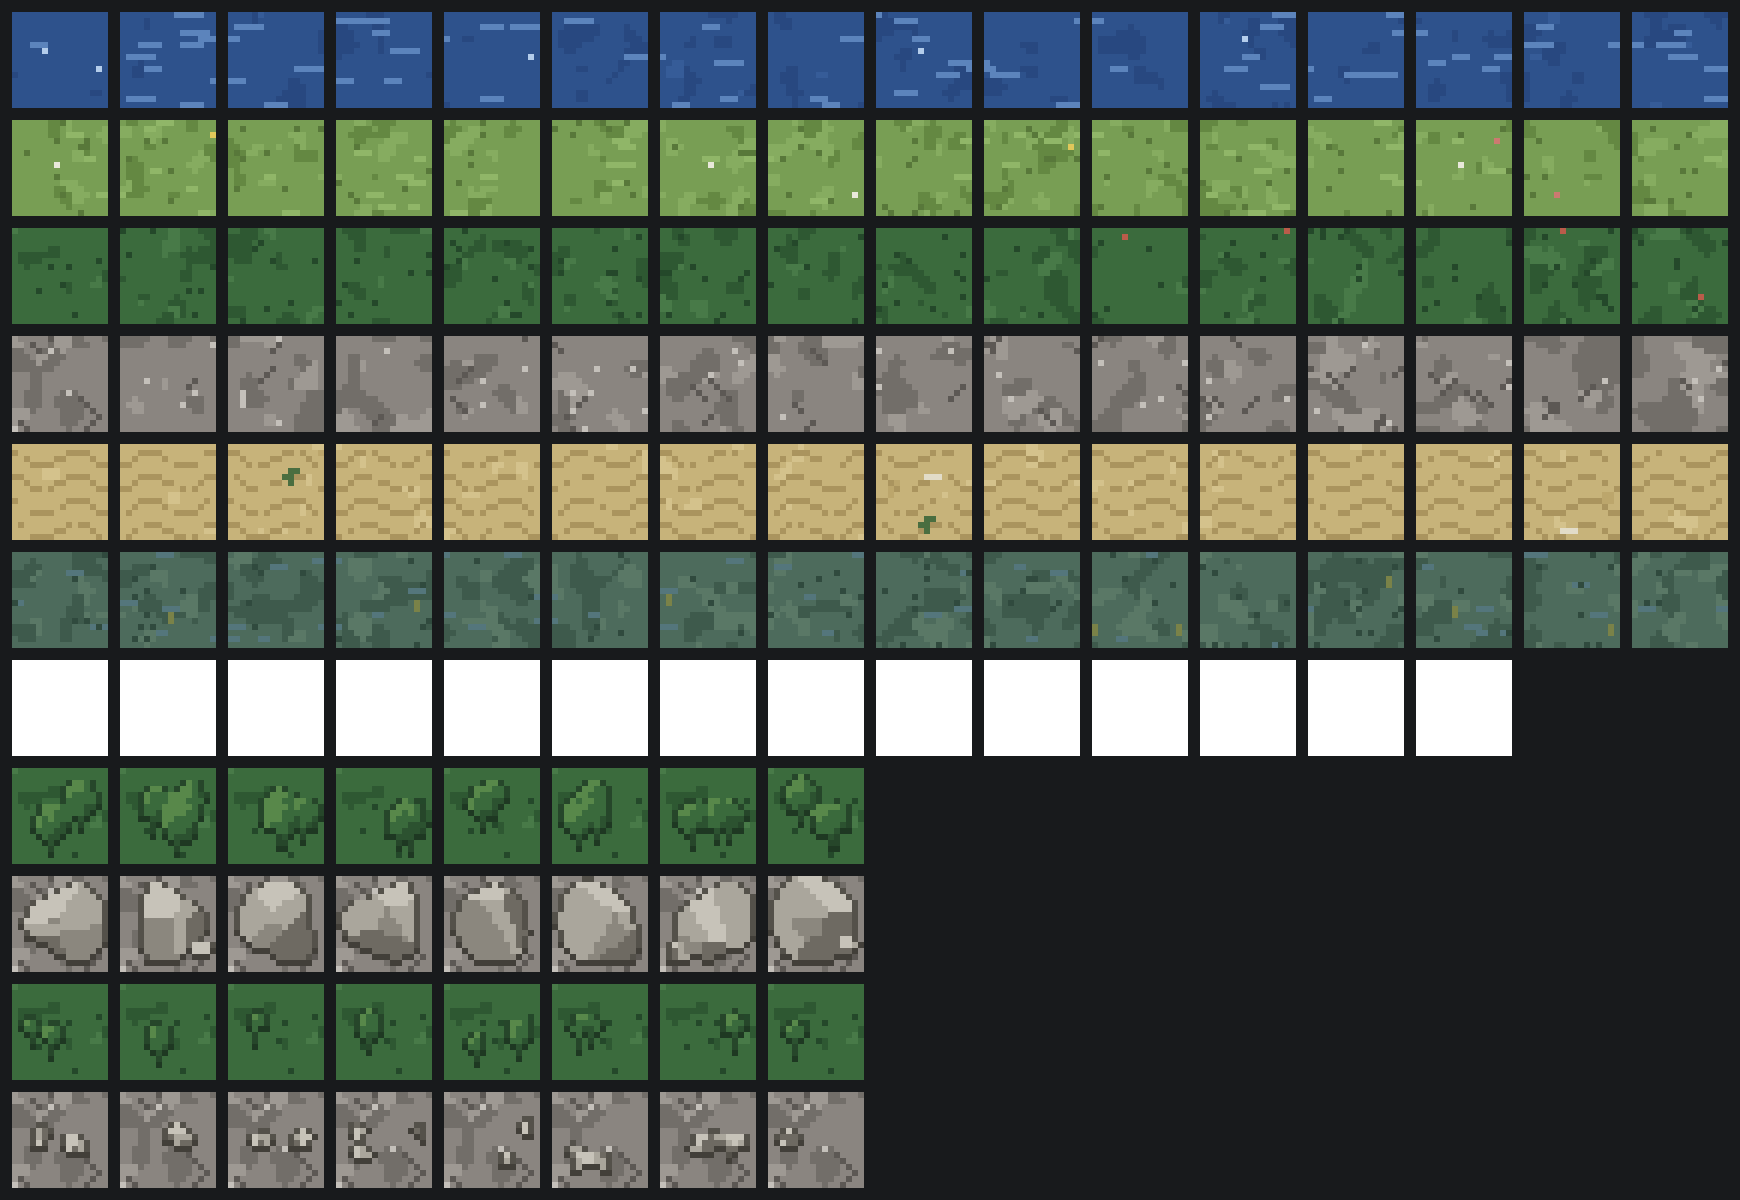
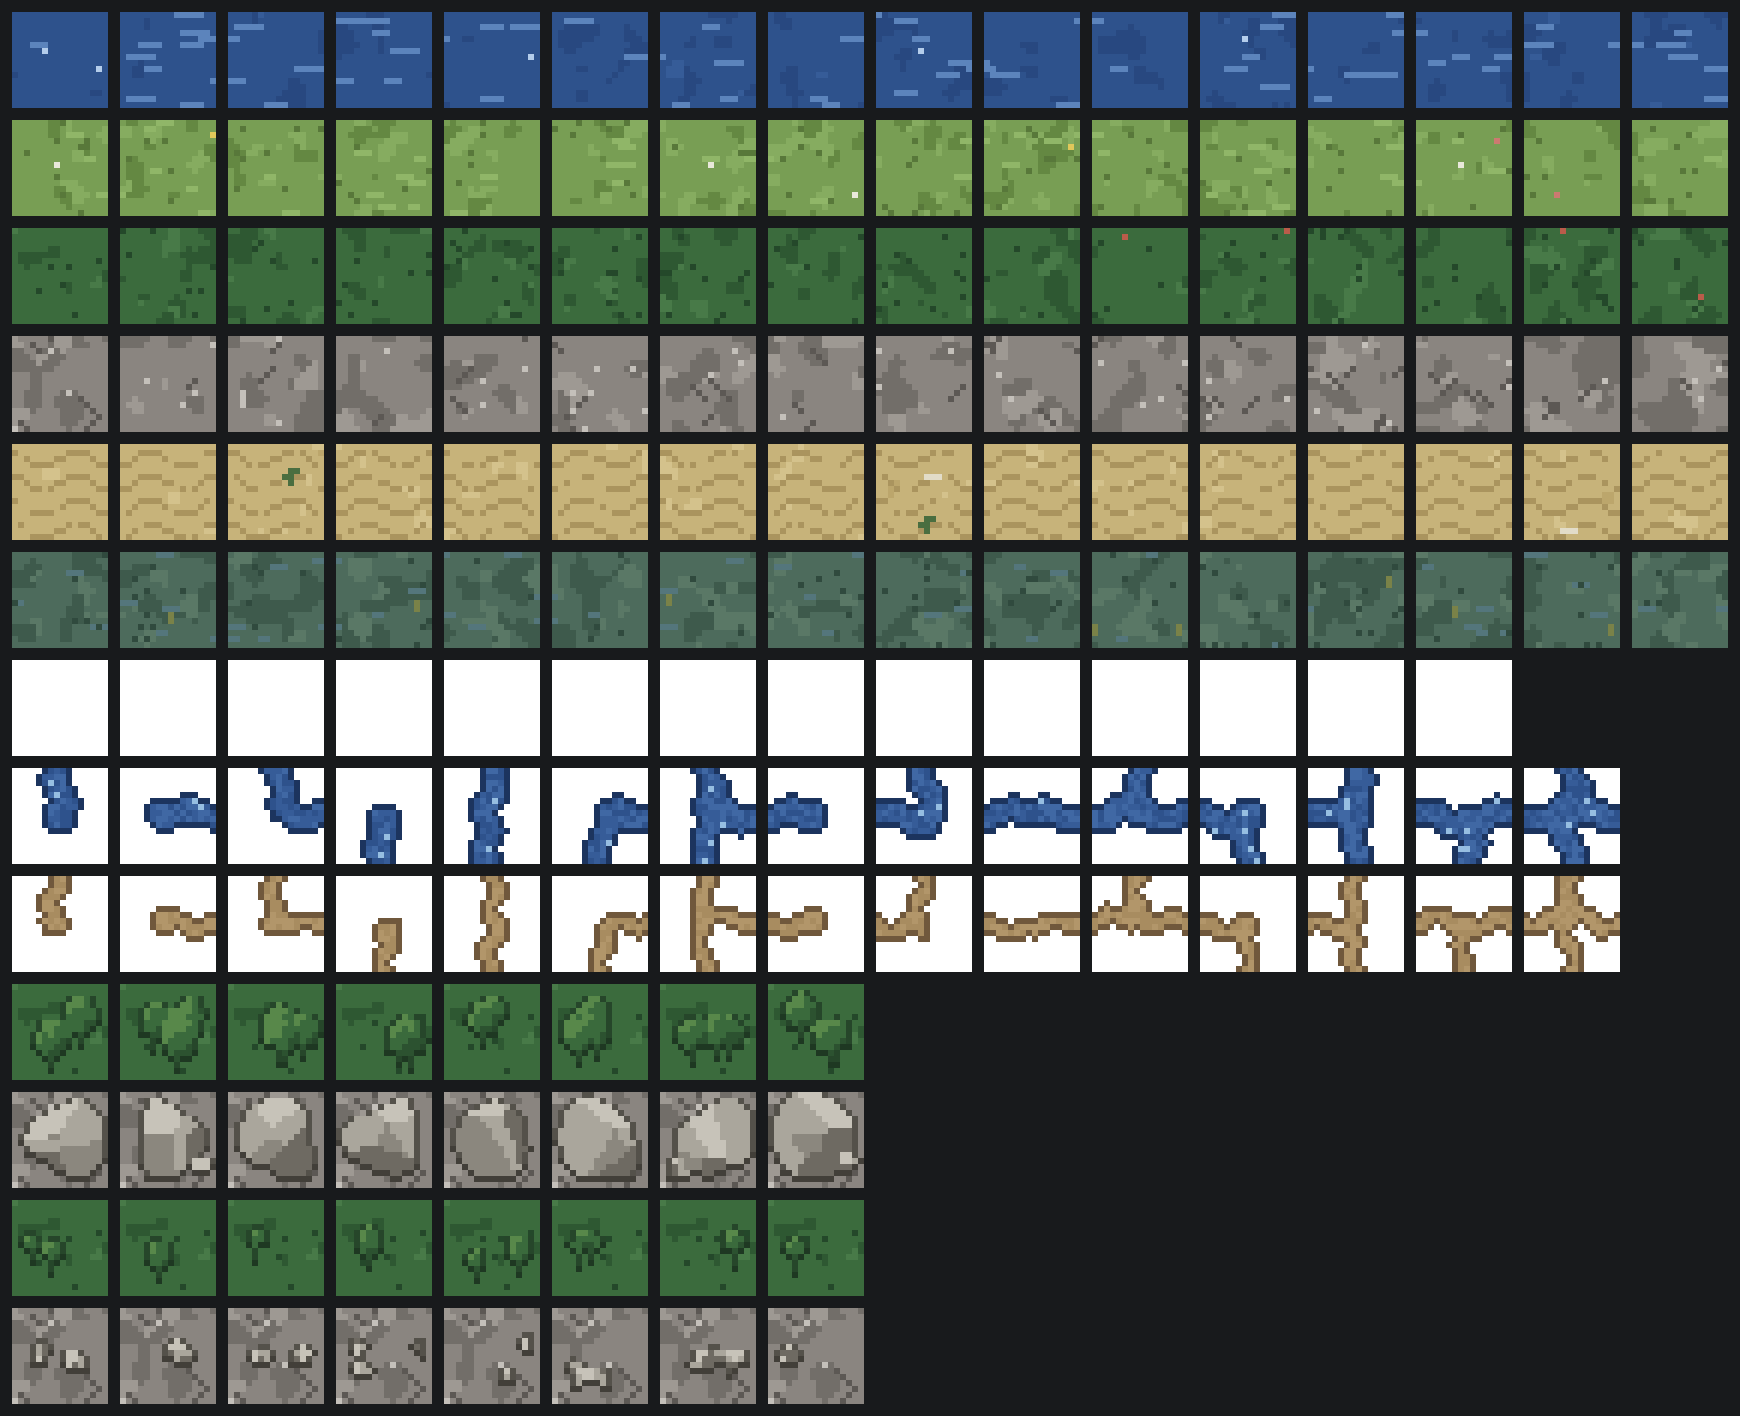
rivers and roads

diff --git a/tools/gen_tiles.py b/tools/gen_tiles.py
@@ -470,6 +470,72 @@ def ms_mask(rng, code):
     return [[pred(x, y) for x in range(SIZE)] for y in range(SIZE)]
 
 
+# ------------------------------------------------------------- networks
+#
+# Rivers and roads: finished pieces per 4-bit connection case (N=1, E=2,
+# S=4, W=8, matching BD_Dir). A channel wanders from each connected edge
+# midpoint to the center; the wander vanishes at the edge, so pieces
+# connect across tiles.
+
+NET_VARIANTS = 4
+NET_ENDS = ((SIZE / 2, 0.0), (SIZE, SIZE / 2), (SIZE / 2, SIZE), (0.0, SIZE / 2))  # N E S W
+
+
+def channel_mask(rng, code, width):
+    keep = [[False] * SIZE for _ in range(SIZE)]
+    cx = SIZE / 2 + rng.uniform(-1.2, 1.2)
+    cy = SIZE / 2 + rng.uniform(-1.2, 1.2)
+    r = width / 2.0
+
+    def stamp(sx, sy, sr):
+        for y in range(max(0, int(sy - sr - 1)), min(SIZE, int(sy + sr + 2))):
+            for x in range(max(0, int(sx - sr - 1)), min(SIZE, int(sx + sr + 2))):
+                if (x + 0.5 - sx) ** 2 + (y + 0.5 - sy) ** 2 <= sr * sr:
+                    keep[y][x] = True
+
+    for bit in range(4):
+        if not (code >> bit) & 1:
+            continue
+        ex, ey = NET_ENDS[bit]
+        dx, dy = cx - ex, cy - ey
+        length = math.hypot(dx, dy)
+        nx, ny = -dy / length, dx / length  # perpendicular carries the wander
+        amp = rng.uniform(0.8, 1.8)
+        phase = rng.uniform(0.0, TAU)
+        for i in range(13):
+            t = i / 12.0
+            w = amp * math.sin(math.pi * t) * math.sin(phase + t * 5.0)
+            stamp(ex + dx * t + nx * w, ey + dy * t + ny * w, r)
+    if bin(code).count("1") == 1:  # stub: a head where the flow peters out
+        stamp(cx, cy, r + 0.8)
+    return keep
+
+
+def paint_network(rng, code, fill, bank, width, sparkle=None):
+    px = new_canvas()
+    keep = channel_mask(rng, code, width)
+    for y in range(SIZE):
+        for x in range(SIZE):
+            if keep[y][x]:
+                px[y][x] = rng.choice(fill)
+    # banks: channel pixels beside open ground darken; the tile border stays
+    # open, so the channel flows through
+    out = [row[:] for row in px]
+    for y in range(SIZE):
+        for x in range(SIZE):
+            if px[y][x] is None:
+                continue
+            for dy, dx in ((-1, 0), (1, 0), (0, -1), (0, 1)):
+                if 0 <= y + dy < SIZE and 0 <= x + dx < SIZE and px[y + dy][x + dx] is None:
+                    out[y][x] = bank
+    if sparkle:
+        for y in range(SIZE):
+            for x in range(SIZE):
+                if out[y][x] is not None and out[y][x] != bank and rng.random() < 0.05:
+                    out[y][x] = sparkle
+    return out
+
+
 # ------------------------------------------------------------------ output
 
 def to_image(px):
@@ -515,6 +581,22 @@ def main():
                 mask_row.append(img)
     sheet_rows.append(("masks", mask_row))
     print(f"masks: 14 cases x {MS_VARIANTS} variants")
+
+    # network pieces: rivers and roads by connection case
+    for name, fill, bank, width, sparkle in (
+        ("river", [(46, 82, 140), (54, 92, 152), (64, 104, 164)], (28, 52, 94), 5.0, (150, 190, 225)),
+        ("road", [(168, 140, 96), (178, 150, 106)], (112, 88, 60), 3.6, None),
+    ):
+        net_row = []
+        for code in range(1, 16):
+            for variant in range(NET_VARIANTS):
+                rng = random.Random(f"{name}-{code}:{variant}")
+                img = to_image(paint_network(rng, code, fill, bank, width, sparkle))
+                img.save(os.path.join(OUT_DIR, f"{name}_{code}_{variant}.png"))
+                if variant == 0:
+                    net_row.append(img)
+        sheet_rows.append((name, net_row))
+        print(f"{name}: 15 cases x {NET_VARIANTS} variants")
 
     for suffix, painters in (("overlay", OVERLAYS), ("edge", EDGE_OVERLAYS)):
         for name, painter in painters.items():

diff --git a/src/main.c b/src/main.c
@@ -117,7 +117,11 @@ internal TL_Cell* map_cache_cell(MapCache* cache, BD_Board* board, V2I p) {
         nb[(dy + 1) * 3 + (dx + 1)] = bd_tile_at(board, v2i_add(p, (V2I){dx, dy}))->terrain;
       }
     }
-    *cell = tl_cell(&cache->tiling, nb, p);
+    U8 networks[TL_NETWORK_CAP] = {0};
+    for(BD_Feature feature = 0; feature < BD_Feature_COUNT; feature += 1) {
+      networks[feature] = bd_tile_at(board, p)->features[feature];
+    }
+    *cell = tl_cell(&cache->tiling, nb, networks, p);
   }
   return cell;
 }
@@ -181,6 +185,23 @@ internal MapAssets map_assets_load(void) {
       U32 id = map__load(&assets, scratch.arena, path);
       if(id == 0) { break; }
       tl_push_mask(&assets.tiling, code, id);
+    }
+  }
+
+  // network art, by BD_Feature id; finished pieces per connection case
+  struct { U32 network; char* name; } NETWORK_ART[] = {
+      {BD_Feature_River, "river"},
+      {BD_Feature_Road, "road"},
+  };
+  for(U32 i = 0; i < ArrayCount(NETWORK_ART); i += 1) {
+    for(U32 code = 1; code < 16; code += 1) {
+      for(U32 variant = 0;; variant += 1) {
+        String8 path = push_str8f(scratch.arena, "assets/tiles/%s_%u_%u.png",
+                                  NETWORK_ART[i].name, code, variant);
+        U32 id = map__load(&assets, scratch.arena, path);
+        if(id == 0) { break; }
+        tl_push_network(&assets.tiling, NETWORK_ART[i].network, code, id);
+      }
     }
   }
 
@@ -277,36 +298,6 @@ internal void map_draw(BD_Board* board, MapAssets* assets, MapCache* cache, D_Ca
               // draws nothing (also keeps the sheet batch unbroken)
               d_rect(r, WG_TERRAIN_DATA[piece->klass].color);
             }
-          }
-        }
-      }
-    }
-
-    // features as half-segments, tile center toward each connected neighbor;
-    // the neighbor draws the matching half, so connections read as one line
-    // (an edge tile's off-map half sends rivers visibly off the world).
-    // Rivers under roads: where both run, the road is the bridge.
-    struct {
-      BD_Feature feature;
-      F32 thickness;
-      V4 color;
-    } FEATURE_STYLES[] = {
-        {BD_Feature_River, MAP_TILE * 0.25f, {0.25f, 0.45f, 0.75f, 1}},
-        {BD_Feature_Road, MAP_TILE * 0.18f, {0.42f, 0.31f, 0.20f, 1}},
-    };
-    for(U32 style_idx = 0; style_idx < ArrayCount(FEATURE_STYLES); style_idx += 1) {
-      for(I32 y = y0; y <= y1; y += 1) {
-        for(I32 x = x0; x <= x1; x += 1) {
-          U8 mask = bd_tile_at(board, (V2I){x, y})->features[FEATURE_STYLES[style_idx].feature];
-          if(mask == 0) { continue; }
-          V2 center = {(x + 0.5f) * MAP_TILE, (y + 0.5f) * MAP_TILE};
-          for(BD_Dir dir = 0; dir < BD_Dir_COUNT; dir += 1) {
-            if(((mask >> dir) & 1) == 0) { continue; }
-            V2I delta = bd_dir_delta(dir);
-            V2 edge = {center.x + delta.x * MAP_TILE * 0.5f,
-                       center.y + delta.y * MAP_TILE * 0.5f};
-            d_line(center, edge, FEATURE_STYLES[style_idx].thickness,
-                   FEATURE_STYLES[style_idx].color);
           }
         }
       }

diff --git a/src/game/tiling.h b/src/game/tiling.h
@@ -59,13 +59,21 @@
 // EDGE MIDPOINTS (wander is free in between), which is what makes contours
 // of neighboring dual cells meet.
 //
+//- NETWORKS (rivers, roads) are line features autotiled by their 4-bit
+// connection mask -- bit d = toward BD_Dir d, relayed from the board as-is.
+// Art is finished pieces per connection case, entering and exiting at edge
+// midpoints so pieces connect across cells. Networks draw in id order
+// (road over river reads as a bridge), and a cell carrying any network
+// suppresses its overlays: nothing stands on a river or a road.
+//
 //- Draw contract: pieces overlap across cells (boundary pieces straddle
 // four map cells), so the caller draws the viewport once per TL_Layer, in
-// layer order: every Surface piece of every cell, then every Object piece.
-// Within a layer, cell scanline order is correct by construction.
+// layer order. Within a layer, cell scanline order is correct by
+// construction.
 
 #define TL_TORUS_GRID  4
 #define TL_CLASS_CAP   16
+#define TL_NETWORK_CAP 4
 #define TL_VARIANT_CAP 8
 
 // corner bits of a boundary case, named for where the corner sits in the
@@ -98,6 +106,8 @@ typedef struct {
   TL_Class classes[TL_CLASS_CAP];
   U32 mask_ids[16][TL_VARIANT_CAP]; // by case code; global, class-agnostic
   U32 mask_counts[16];
+  U32 network_ids[TL_NETWORK_CAP][16][TL_VARIANT_CAP]; // by connection case
+  U32 network_counts[TL_NETWORK_CAP][16];
 } TL_Config;
 
 internal void tl_class_set(TL_Config* config, U32 klass, U8 rank, U32 overlay_density);
@@ -105,10 +115,12 @@ internal void tl_push_ground(TL_Config* config, U32 klass, U32 gx, U32 gy, U32 i
 internal void tl_push_overlay(TL_Config* config, U32 klass, U32 id);
 internal void tl_push_edge_overlay(TL_Config* config, U32 klass, U32 id);
 internal void tl_push_mask(TL_Config* config, U32 code, U32 id);
+internal void tl_push_network(TL_Config* config, U32 network, U32 code, U32 id);
 
 typedef U32 TL_Layer;
 enum {
   TL_Layer_Surface, // ground and boundary spill; drawn first
+  TL_Layer_Network, // rivers, roads: over the ground, under standing art
   TL_Layer_Object,  // standing art (overlays); drawn over every surface
   TL_Layer_COUNT,
 };
@@ -122,11 +134,13 @@ typedef struct {
 } TL_Piece;
 
 typedef struct {
-  TL_Piece pieces[6]; // in-cell draw order; across cells, draw layer by layer
+  TL_Piece pieces[8]; // in-cell draw order; across cells, draw layer by layer
   U32 count;
 } TL_Cell;
 
 // neighborhood: the cell's 3x3 class window, row-major (index 4 = the cell
 // itself). Class ids at-or-past class_count read as class 0 -- the caller's
-// bad-id diagnostic path. p is the cell's world position.
-internal TL_Cell tl_cell(TL_Config* config, U32 neighborhood[9], V2I p);
+// bad-id diagnostic path. networks: the cell's connection mask per network
+// id (ZII: zeros = none). p is the cell's world position.
+internal TL_Cell tl_cell(TL_Config* config, U32 neighborhood[9],
+                         U8 networks[TL_NETWORK_CAP], V2I p);

diff --git a/src/game/tiling.c b/src/game/tiling.c
@@ -50,6 +50,14 @@ internal void tl_push_mask(TL_Config* config, U32 code, U32 id) {
   }
 }
 
+internal void tl_push_network(TL_Config* config, U32 network, U32 code, U32 id) {
+  if(network < TL_NETWORK_CAP && code < 16 &&
+     config->network_counts[network][code] < TL_VARIANT_CAP) {
+    config->network_ids[network][code][config->network_counts[network][code]] = id;
+    config->network_counts[network][code] += 1;
+  }
+}
+
 ////////////////////////////////
 //~ fp: Cell Query
 
@@ -72,7 +80,8 @@ internal U32 tl__order(TL_Config* config, U32 klass) {
   return ((U32)config->classes[klass].rank << 16) | klass;
 }
 
-internal TL_Cell tl_cell(TL_Config* config, U32 neighborhood[9], V2I p) {
+internal TL_Cell tl_cell(TL_Config* config, U32 neighborhood[9],
+                         U8 networks[TL_NETWORK_CAP], V2I p) {
   TL_Cell result = {0};
 
   // bad ids read as class 0 -- the caller's diagnostic path (loud nil color)
@@ -138,10 +147,25 @@ internal TL_Cell tl_cell(TL_Config* config, U32 neighborhood[9], V2I p) {
     }
   }
 
+  //- networks, in id order; carrying any suppresses the cell's overlays
+  B32 networked = 0;
+  for(U32 n = 0; n < TL_NETWORK_CAP; n += 1) {
+    U32 code = networks[n];
+    if(code == 0) { continue; }
+    networked = 1;
+    U32 count = config->network_counts[n][code];
+    if(count == 0) { continue; }
+    TL_Piece* piece = &result.pieces[result.count];
+    result.count += 1;
+    piece->id = config->network_ids[n][code][tl__noise(config->seed, p, 8 + n) % count];
+    piece->klass = klass;
+    piece->layer = TL_Layer_Network;
+  }
+
   //- overlay art tapers at the region border: sparse edge art there, full
   // art inside -- with bare gaps so a massif or forest reads as scattered
   // shapes, not a carpet of one tile art per cell
-  {
+  if(!networked) {
     B32 on_border = 0;
     for(U32 i = 0; i < 9; i += 1) { on_border |= nb[i] != klass; }
     U32* ids = 0;
